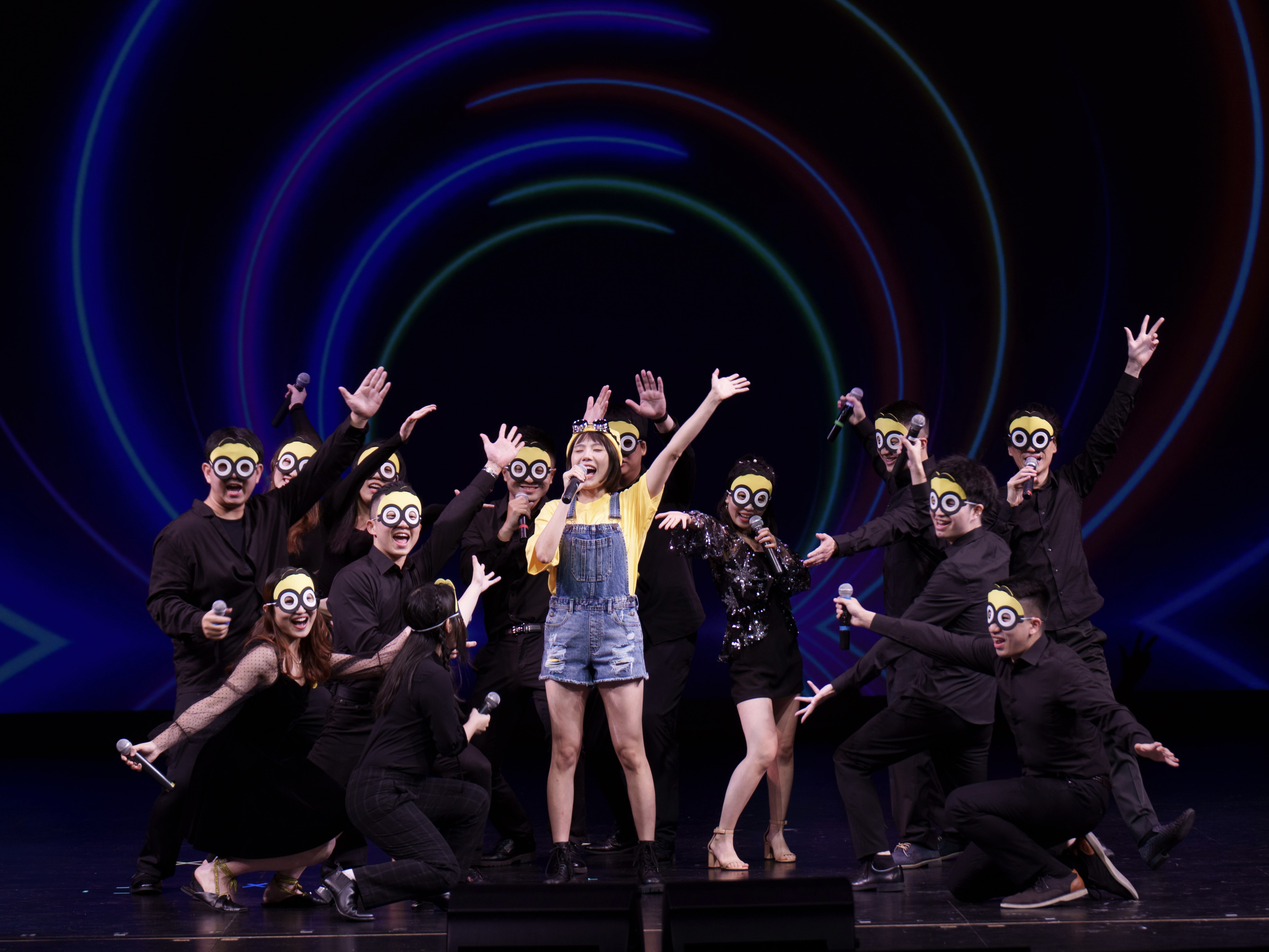
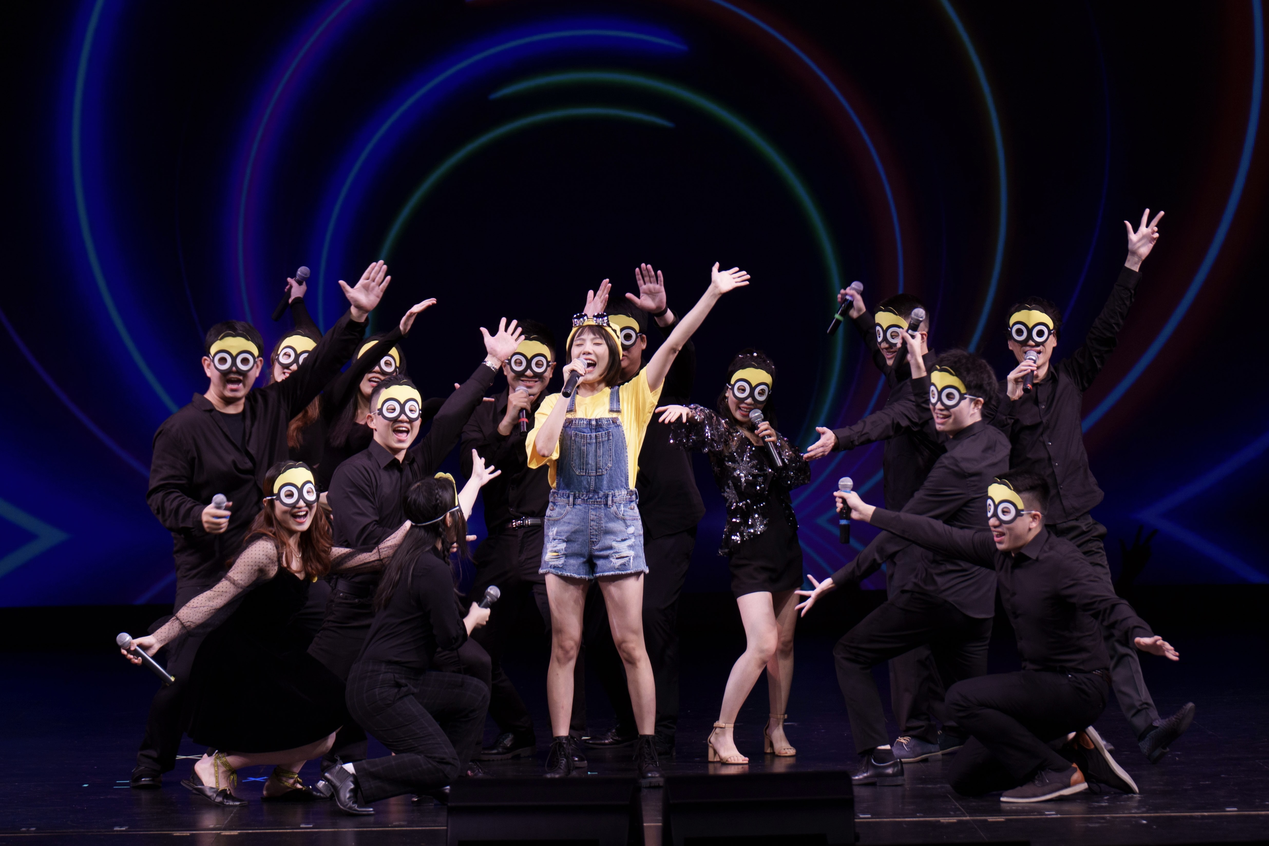
Image cleanup, add link for FindX and workshop.

diff --git a/index.html b/index.html
@@ -103,7 +103,23 @@
 
         <section class="slick-slideshow" aria-label="Featured photos and events">
             <div class="slick-custom">
-                <img src="images/雨爱.jpeg" class="img-fluid" alt="CMCA community singing at Mandarin A Cappella Workshop">
+                <img src="images/拾光音乐节.PNG" class="img-fluid" alt="Find X Music Festival">
+
+                <div class="slick-bottom">
+                    <div class="container">
+                        <div class="row">
+                            <div class="col-lg-6 col-10">
+                                <h1 class="slick-title">Find X Music Festival</h1>
+                                <p class="lead text-white mt-lg-3 mb-lg-5">Saturday, August 23rd, 6:00 PM – 9:30 PM</p>
+                                <a href="https://my.findacappella.com/tenant/event/d36379d4-2d88-49b6-9ef2-aab7410a7e75" class="btn custom-btn">RSVP</a>
+                            </div>
+                        </div>
+                    </div>
+                </div>
+            </div>
+
+            <div class="slick-custom">
+                <img src="images/Barbara Ann.jpg" class="img-fluid" alt="CMCA community singing at Mandarin A Cappella Workshop">
 
                 <div class="slick-bottom">
                     <div class="container">
@@ -111,7 +127,7 @@
                             <div class="col-lg-6 col-10">
                                 <h1 class="slick-title">Mandarin A Cappella Workshop</h1>
                                 <p class="lead text-white mt-lg-3 mb-lg-5">Everyone is welcome—no experience required.</p>
-                                <!-- <a href="https://event.hellotaro.com/e/2025_ca_find_a_capella_0511" class="btn custom-btn">RSVP</a> -->
+                                <a href="https://my.findacappella.com" class="btn custom-btn">RSVP</a>
                             </div>
                         </div>
                     </div>
@@ -119,22 +135,7 @@
             </div>
             
             <div class="slick-custom">
-                <img src="images/Barbara Ann.jpg" class="img-fluid" alt="Performance at Stanford Memorial Church">
-
-                <div class="slick-bottom">
-                    <div class="container">
-                        <div class="row">
-                            <div class="col-lg-6 col-10">
-                                <h1 class="slick-title">Stanford Memorial Church</h1>
-                                <p class="lead text-white mt-lg-3 mb-lg-5">July 20, 2025</p>
-                            </div>
-                        </div>
-                    </div>
-                </div>
-            </div>
-
-            <div class="slick-custom">
-                <img src="images/Group.jpg" class="img-fluid" alt="CMCA group photo">
+                <img src="images/2024团体照.jpg" class="img-fluid" alt="CMCA group photo">
 
                 <div class="slick-bottom">
                     <div class="container">
